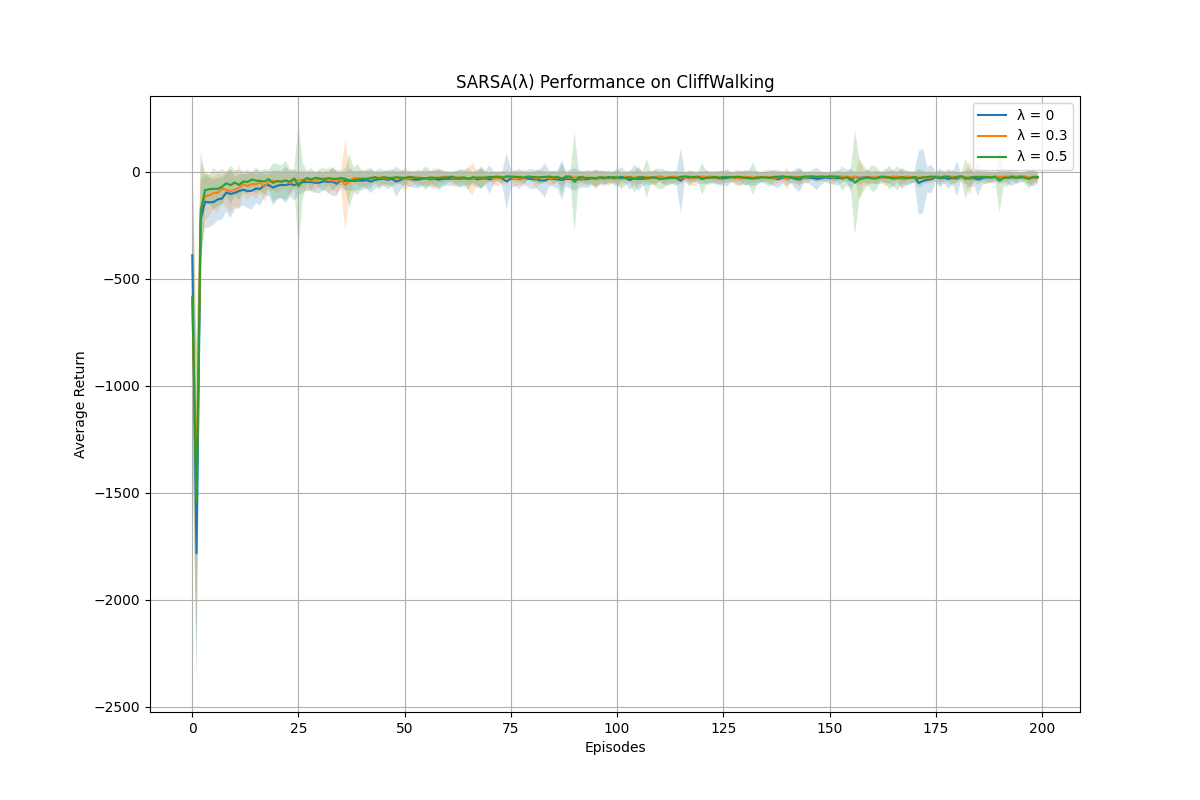
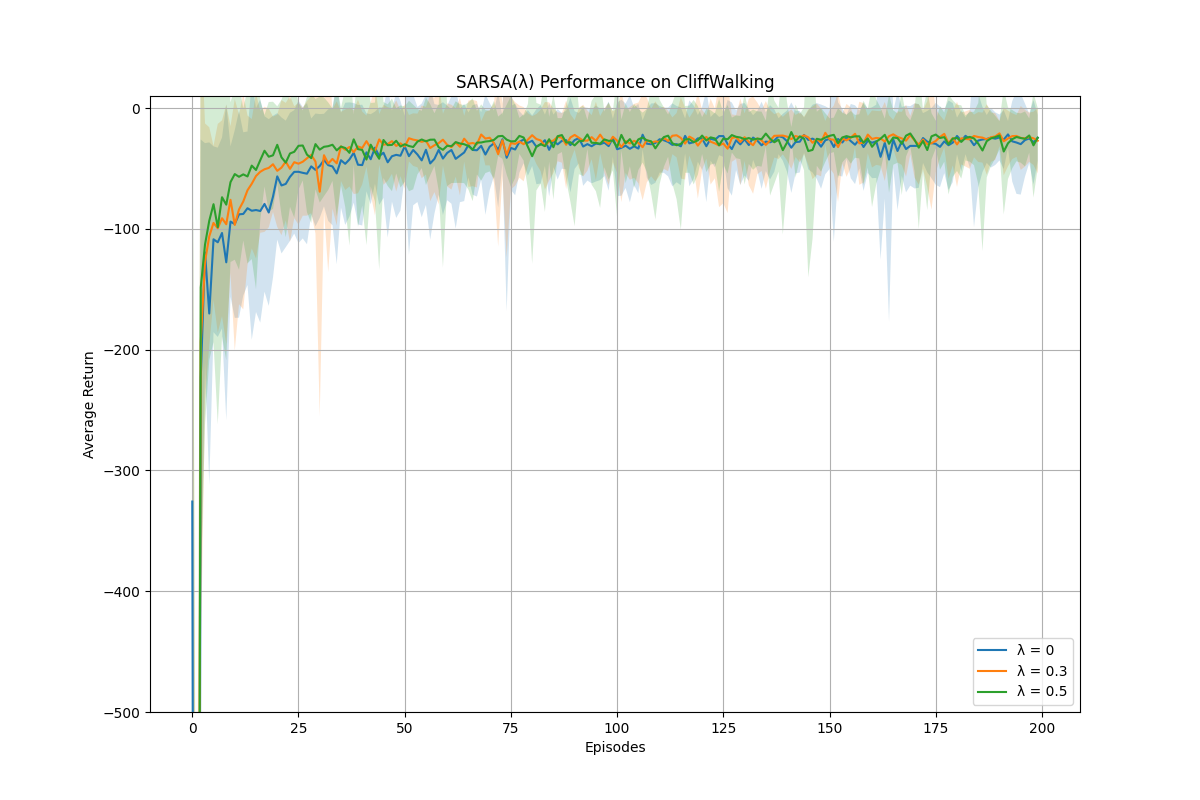
Fix: average return plot and changed heatmap colour pallete

diff --git a/Lab 4 - Model Free Learning/sarsa_lambda.py b/Lab 4 - Model Free Learning/sarsa_lambda.py
@@ -61,7 +61,7 @@ def save_averaged_heatmap(average_Q_values, episode, lambda_str):
     
     sns.heatmap(
         averaged_value_function, 
-        cmap=sns.cubehelix_palette(as_cmap=True), 
+        cmap='mako', 
         annot=False, 
         fmt=".1f", 
         cbar=True, 
@@ -113,10 +113,13 @@ def main():
         plt.plot(avg_returns, label=f'λ = {lambda_}')
         plt.fill_between(range(num_episodes), avg_returns - std_returns, avg_returns + std_returns, alpha=0.2)
 
+    # Set y-axis range based on expected returns in CliffWalking
+    plt.ylim(-500, 10)  # Adjust as needed
+
     plt.xlabel('Episodes')
     plt.ylabel('Average Return')
     plt.title('SARSA(λ) Performance on CliffWalking')
-    plt.legend(loc=4)
+    plt.legend(loc='lower right') 
     plt.grid(True)
     plt.savefig('sarsa_lambda_average_return.png')
     plt.show()
